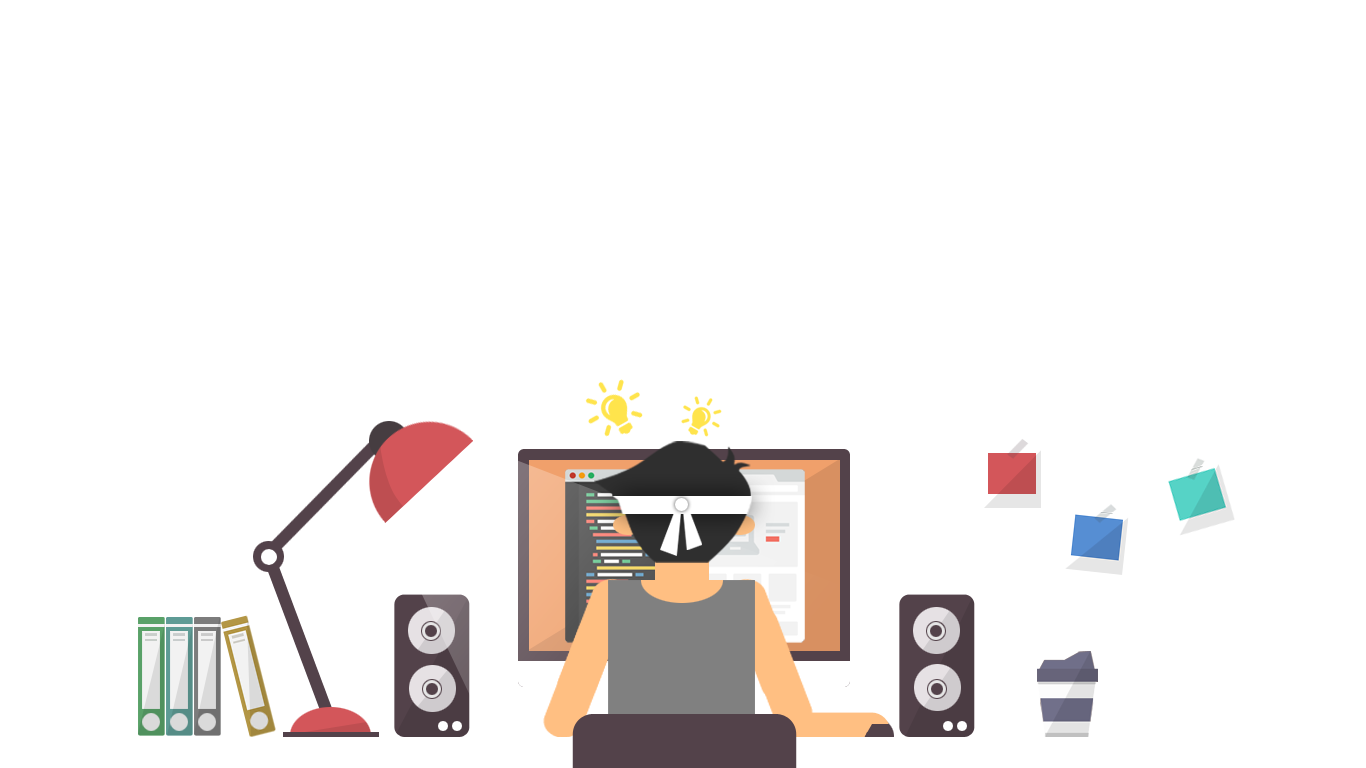
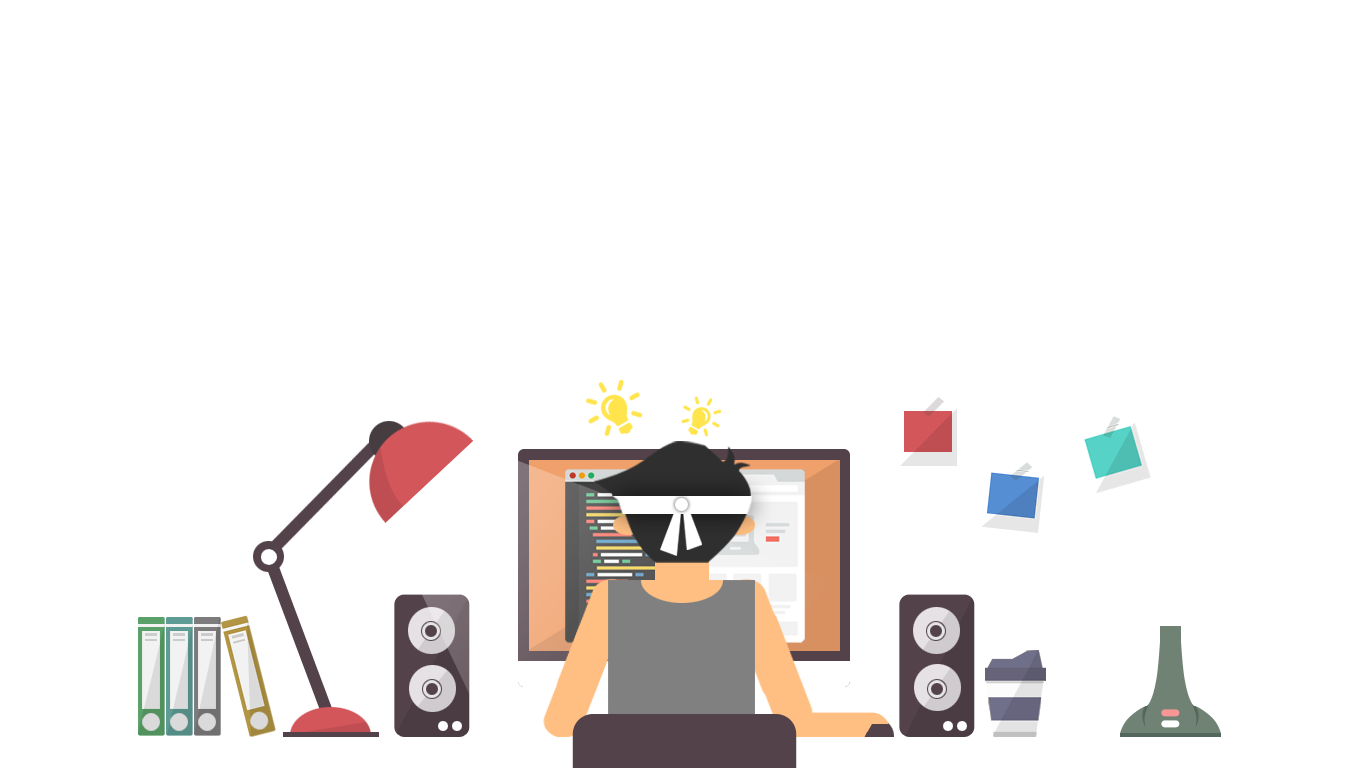
add fan

Changed region(s): [[0.6457, 0.5312, 0.9224, 0.75], [0.7072, 0.8125, 0.8917, 0.9688]]

diff --git a/assets/css/own-animate.css b/assets/css/own-animate.css
@@ -481,14 +481,150 @@
     100% {left: 1300px; top:0px; }
 }
 
+/*--------------------------------fan-----------------------------------*/
 
-@media (max-width: 1200px){
+.fan-frame{
+	width: 100%;
+  max-width: 1366px;
+  margin-right: auto;
+  margin-left: auto;
+  position: relative;
+}
+.fan-top{
+	top: 120px;
+	left: 980px;
+	width: 150px;
+	height: 150px;
+	background: url("../images/fan-top.png");
+	position: relative;
+}
+
+.centerFan{
+  width:30px;
+  height:30px;
+  position: relative;
+  left:1042px;
+  top:210px;
+  border-radius:100%;
+  background:rgba(255,255,255,.7);
+  -webkit-animation:rotateAnimation 5s infinite;
+  -moz-animation:rotateAnimation 5s infinite;
+  -o-animation:rotateAnimation 5s infinite;
+  -ms-animation:rotateAnimation 5s infinite;
+  animation:rotateAnimation 5s infinite;
+  animation-timing-function: linear;
+}
+.item1,.item2, .item3{
+  width:30px;
+  height:50px;
+  background: #568ED3;
+  position:relative;
+  border-radius:10px; 
+  -webkit-box-shadow:1px 1px 20px rgba(255,255,255,.4);
+  -moz-box-shadow:1px 1px 20px rgba(255,255,255,.4);
+  -ms-box-shadow:1px 1px 20px rgba(255,255,255,.4);
+  -o-box-shadow:1px 1px 20px rgba(255,255,255,.4);
+  box-shadow:1px 1px 20px rgba(255,255,255,.4);
+}
+.item1{
+  top:-50px;
+  left: 2px;
+}
+.item2{
+  top:-38px;
+  left: 35px;
+  transform: rotate(120deg);
+}
+.item3{
+  top:-88px;
+  left: -35px;
+  transform: rotate(240deg);
+}
+
+
+@-webkit-keyframes rotateAnimation{
+ 50%{
+    transform-origin: center;
+   transform: rotate(3turn);
+ }
+  100%{
+    transform-origin: center;
+   transform: rotate(5turn);
+
+  } 
+}
+@-moz-keyframes rotateAnimation{
+ 50%{
+    transform-origin: center;
+   transform: rotate(3turn);
+ }
+  100%{
+    transform-origin: center;
+   transform: rotate(5turn);
+
+  } 
+}
+@-ms-keyframes rotateAnimation{
+ 50%{
+    transform-origin: center;
+   transform: rotate(3turn);
+ }
+  100%{
+    transform-origin: center;
+   transform: rotate(5turn);
+
+  } 
+}
+@-o-keyframes rotateAnimation{
+ 50%{
+    transform-origin: center;
+   transform: rotate(3turn);
+ }
+  100%{
+    transform-origin: center;
+   transform: rotate(5turn);
+
+  } 
+}
+@keyframes rotateAnimation{
+ 0%{
+    transform-origin: center;
+   transform: rotate(3turn);
+ }
+  100%{
+    transform-origin: center;
+   transform: rotate(10turn);
+
+  } 
+}
+
+
+
+
+@media (max-width: 1199px){
+
+	body{
+		overflow-x: hidden;
+	}
+
 	.galon{
 		left: 900px;
+	}
+
+	.fan-top{
+		left: 880px;
+		top: 120px;
+	}
+
+	.centerFan{
+		left:942px;
 	}
 }
 
 @media (max-width: 991px){
+	.fan-top{
+		display: none;
+	}
 	.galon{
 		display: none;
 	}

diff --git a/assets/css/style.css b/assets/css/style.css
@@ -1135,7 +1135,7 @@ a:hover {
   
 }
 
-@media all and (max-width : 1000px) {
+@media all and (max-width : 991px) {
   .contact .background_contact{
     background: none;
   }
@@ -1160,6 +1160,10 @@ a:hover {
     min-height:100%;
     height: 100%;
     padding-bottom: 40px;
+  }
+
+  .portfolio .background_portfolio{
+    background: none;
   }
 
   #clock_frame {

diff --git a/application/views/home/homepage/service.php b/application/views/home/homepage/service.php
@@ -1,14 +1,12 @@
- <!-- about section BEGIN -->
-    <section class="service" id="service">
-       <div class="background_service">
-                   
-<div class="container">
-
-            <div class="row">
-              <div class="col-md-6 text wow animated fadeInLeft" >
-              <div class="item_frame">
-                <section>
-                 <div class="text">
+<!-- about section BEGIN -->
+<section class="service" id="service">
+  <div class="background_service">
+    <div class="container">
+      <div class="row">
+        <div class="col-md-6 text wow animated fadeInLeft" >
+          <div class="item_frame">
+            <section>
+              <div class="text">
                 <div class="title"><h4><b>Custom Website</b> Development Services</h4></div>
                 <div class="description">
                   <p>
@@ -16,31 +14,24 @@
                   </p>
                 </div>
               </div>
-                  
-                </section>
-              </div>
-              </div>
+            </section>
+          </div>
+        </div>
                           
-              <div class="col-md-6">
-             
-
-               <div class="row">
-
-              <div class="col-md-6 text wow animated fadeInDown">
+        <div class="col-md-6">
+          <div class="row">
+            <div class="col-md-6 text wow animated fadeInDown">
               <div class="item_frame">
                 <section>
                   <div class="skill_title">CSS</div>
                   <div class="progress-wrap1 progress" data-progress-percent1="95" style="background-color:#16a085;">
                     95 %<div class="progress-bar1 progress"></div>
-
                   </div>
-                  
-                  
                 </section>
               </div>
-              </div>
+            </div>
                           
-                          <div class="col-md-6 text wow animated fadeInUp">
+            <div class="col-md-6 text wow animated fadeInUp">
               <div class="item_frame">
                 <section>
                   <div class="skill_title">Javascript</div>
@@ -52,9 +43,9 @@
                   
                 </section>
               </div>
-              </div>
+            </div>
 
-              <div class="col-md-6 text wow animated fadeInDown">
+            <div class="col-md-6 text wow animated fadeInDown">
               <div class="item_frame">
                 <section>
                   <div class="skill_title">JQuery</div>
@@ -66,9 +57,9 @@
                   
                 </section>
               </div>
-              </div>
+            </div>
 
-              <div class="col-md-6 text wow animated fadeInUp">
+            <div class="col-md-6 text wow animated fadeInUp">
               <div class="item_frame">
                 <section>
                   <div class="skill_title">HTML</div>
@@ -80,9 +71,9 @@
                   
                 </section>
               </div>
-              </div>
+            </div>
 
-              <div class="col-md-6 text wow animated fadeInDown">
+            <div class="col-md-6 text wow animated fadeInDown">
               <div class="item_frame">
                 <section>
                   <div class="skill_title">Graphic Design</div>
@@ -94,30 +85,41 @@
                   
                 </section>
               </div>
-              </div>
+            </div>
                           
-                         <div class="col-md-6 text wow animated fadeInUp">
+            <div class="col-md-6 text wow animated fadeInUp">
               <div class="item_frame">
                 <section>
                   <div class="skill_title">PHP</div>
                   <div class="progress-wrap5 progress" data-progress-percent5="75" style="background-color:#16a085;">
                     75 %<div class="progress-bar5 progress"></div>
-
-                  </div>
-
-                  
+                  </div>   
                 </section>
               </div>
-              </div>
-                  
-            </div> 
-
-
-              </div>
-            
             </div>
-            
-          </div>
+                  
+          </div> 
+        </div>
+      </div>
+
+      <div class="fan-frame">
+        <div class="centerFan">
+          <div class="item1"></div>
+          <div class="item2"></div>
+          <div class="item3"></div><!-- 
+          <div class="item4"></div> -->
+        </div>
+        <div class="fan-top"></div>
+
+      </div>
+
     </div>
-    </section><!-- /.features -->
-    <!-- about section END -->
+
+
+
+  </div>
+</section><!-- /.features -->
+
+
+
+<!-- about section END -->
